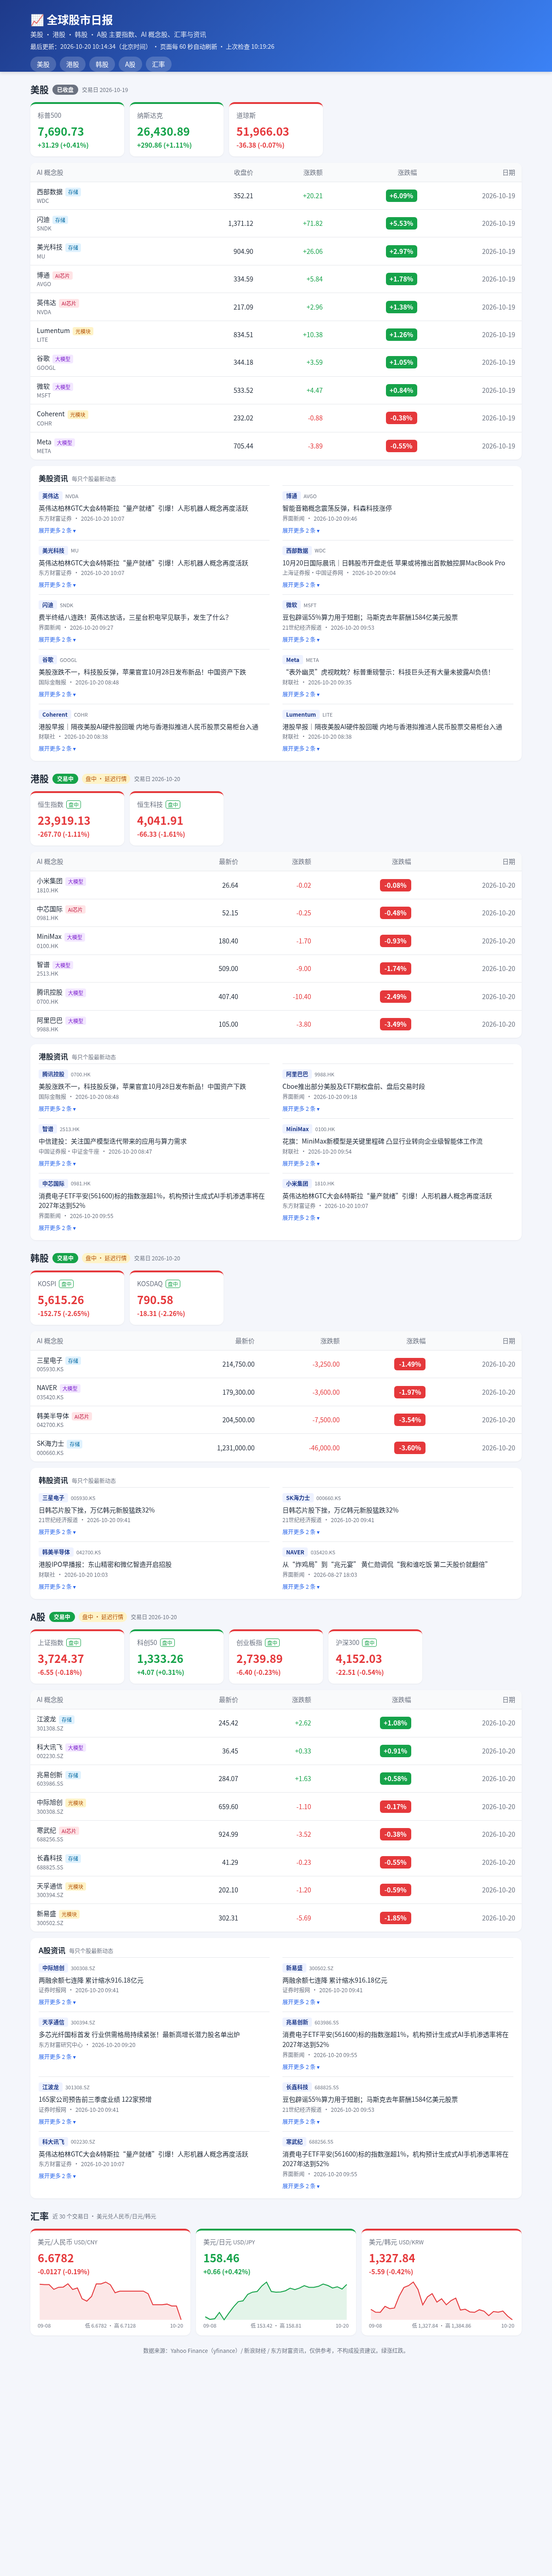
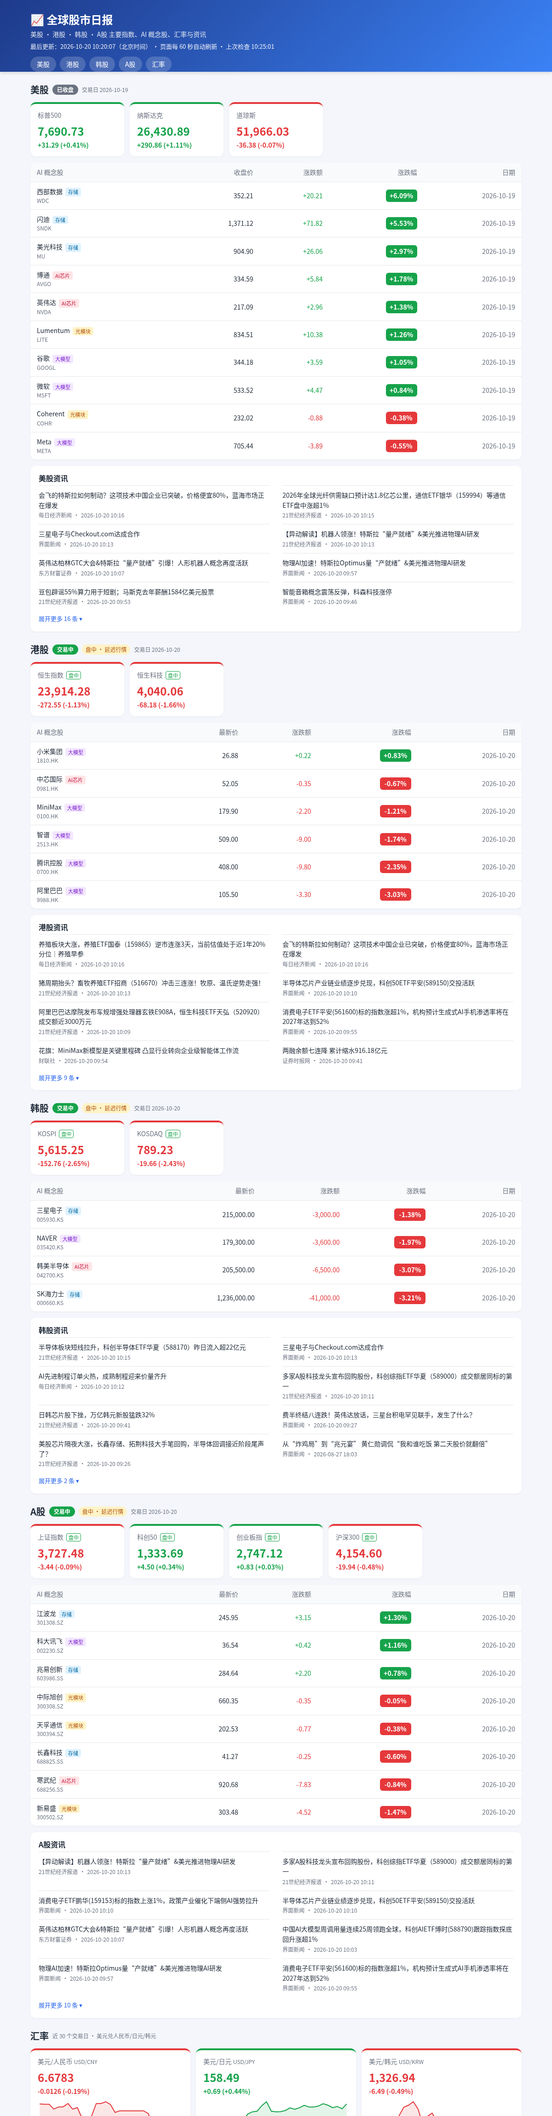
各市场资讯改为合并去重的热门列表

diff --git a/style.css b/style.css
@@ -42,21 +42,14 @@ footer{color:var(--muted);font-size:12px;padding:16px;text-align:center}
 .fx .sym{font-size:12px;color:var(--muted)}
 .spark{width:100%;height:90px;display:block;margin-top:8px}
 .axis{display:flex;justify-content:space-between;font-size:11px;color:var(--muted)}
-.newsbox{background:var(--card);border-radius:12px;box-shadow:0 1px 3px rgba(0,0,0,.06);margin-top:14px;padding:14px 18px 6px}
-.newsbox h3{margin:0 0 4px;font-size:16px;font-weight:600;display:flex;align-items:baseline;gap:8px}
-.newsbox h3 small{font-size:12px;color:var(--muted);font-weight:normal}
-.ngrid{display:grid;grid-template-columns:repeat(2,minmax(0,1fr));column-gap:28px}
-.nitem{padding:12px 0;border-top:1px solid var(--border)}
-.nh{display:flex;align-items:center;gap:6px;margin-bottom:6px}
-.nname{font-size:12px;font-weight:600;color:#1e3a8a;background:#eef2ff;padding:1px 8px;border-radius:4px}
-.nsym{font-size:11px;color:var(--muted)}
-.nitem ul{list-style:none;margin:0;padding:0}
-.nitem li{margin:0 0 8px}
-.nitem li a{color:var(--text);text-decoration:none;font-size:14px;line-height:1.55;display:-webkit-box;-webkit-line-clamp:2;-webkit-box-orient:vertical;overflow:hidden}
-.nitem li a:hover{color:#2563eb}
+.newsbox{background:var(--card);border-radius:12px;box-shadow:0 1px 3px rgba(0,0,0,.06);margin-top:14px;padding:14px 18px 10px}
+.newsbox h3{margin:0 0 4px;font-size:16px;font-weight:600}
+.nlist{list-style:none;margin:0;padding:0;display:grid;grid-template-columns:repeat(2,minmax(0,1fr));column-gap:28px}
+.nlist li{padding:10px 0;border-top:1px solid var(--border)}
+.nlist a{color:var(--text);text-decoration:none;font-size:14px;line-height:1.55;display:-webkit-box;-webkit-line-clamp:2;-webkit-box-orient:vertical;overflow:hidden}
+.nlist a:hover{color:#2563eb}
 .meta{display:block;margin-top:2px;font-size:12px;color:var(--muted)}.meta i{font-style:normal;margin:0 4px}
-.nitem details summary{list-style:none;cursor:pointer;font-size:12px;color:#2563eb;width:max-content}
-.nitem details summary::-webkit-details-marker{display:none}
-.nitem details summary::after{content:" ▾"}.nitem details[open] summary::after{content:" ▴"}
-.nitem details[open] summary{margin-bottom:8px}
-@media(max-width:700px){.ngrid{grid-template-columns:1fr}.newsbox{padding:12px 14px 4px}}
+.newsbox summary{list-style:none;cursor:pointer;font-size:13px;color:#2563eb;padding:8px 0;width:max-content}
+.newsbox summary::-webkit-details-marker{display:none}
+.newsbox summary::after{content:" ▾"}.newsbox details[open] summary::after{content:" ▴"}
+@media(max-width:700px){.nlist{grid-template-columns:1fr}.newsbox{padding:12px 14px 8px}}

diff --git a/app.js b/app.js
@@ -92,12 +92,18 @@ function fxSection(fx) {
 }
 
 function newsBlock(m, news) {
-  const list = ((news || {})[m.key] || []).filter(x => x.news && x.news.length);
-  if (!list.length) return '';
+  const seen = new Set(), all = [];
+  for (const x of ((news || {})[m.key] || [])) for (const n of (x.news || [])) {
+    const k1 = n.link, k2 = (n.title || '').trim();
+    if (seen.has(k1) || seen.has(k2)) continue;
+    seen.add(k1); seen.add(k2); all.push(n);
+  }
+  if (!all.length) return '';
+  all.sort((a, b) => (b.time || '').localeCompare(a.time || ''));
   const li = n => `<li><a href="${esc(n.link)}" target="_blank" rel="noopener noreferrer">${esc(n.title)}</a><span class="meta">${esc(n.source)}<i>·</i>${esc(n.time)}</span></li>`;
-  return `<div class="newsbox"><h3>${m.name}资讯<small>每只个股最新动态</small></h3><div class="ngrid">${list.map(x =>
-    `<div class="nitem"><div class="nh"><span class="nname">${esc(x.name)}</span><span class="nsym">${esc(x.symbol)}</span></div>
-      <ul>${li(x.news[0])}</ul>${x.news.length > 1 ? `<details data-k="${esc(x.symbol)}"><summary>展开更多 ${x.news.length - 1} 条</summary><ul>${x.news.slice(1).map(li).join('')}</ul></details>` : ''}</div>`).join('')}</div></div>`;
+  const N = 8, more = all.slice(N);
+  return `<div class="newsbox"><h3>${m.name}资讯</h3><ul class="nlist">${all.slice(0, N).map(li).join('')}</ul>${more.length ?
+    `<details data-k="${m.key}"><summary>展开更多 ${more.length} 条</summary><ul class="nlist">${more.map(li).join('')}</ul></details>` : ''}</div>`;
 }
 
 let lastData = null;
@@ -108,9 +114,9 @@ function render(d) {
   const nav = document.getElementById('nav');
   if (!nav.children.length) nav.innerHTML = d.markets.map(m => `<a href="#${m.key}">${m.name}</a>`).join('')
     + (d.fx && d.fx.length ? '<a href="#fx">汇率</a>' : '');
-  const open = new Set([...document.querySelectorAll('.nitem details[open]')].map(x => x.dataset.k));
+  const open = new Set([...document.querySelectorAll('.newsbox details[open]')].map(x => x.dataset.k));
   document.getElementById('app').innerHTML = d.markets.map(section).join('') + fxSection(d.fx);
-  document.querySelectorAll('.nitem details').forEach(x => { if (open.has(x.dataset.k)) x.open = true; });
+  document.querySelectorAll('.newsbox details').forEach(x => { if (open.has(x.dataset.k)) x.open = true; });
 }
 
 async function load() {
